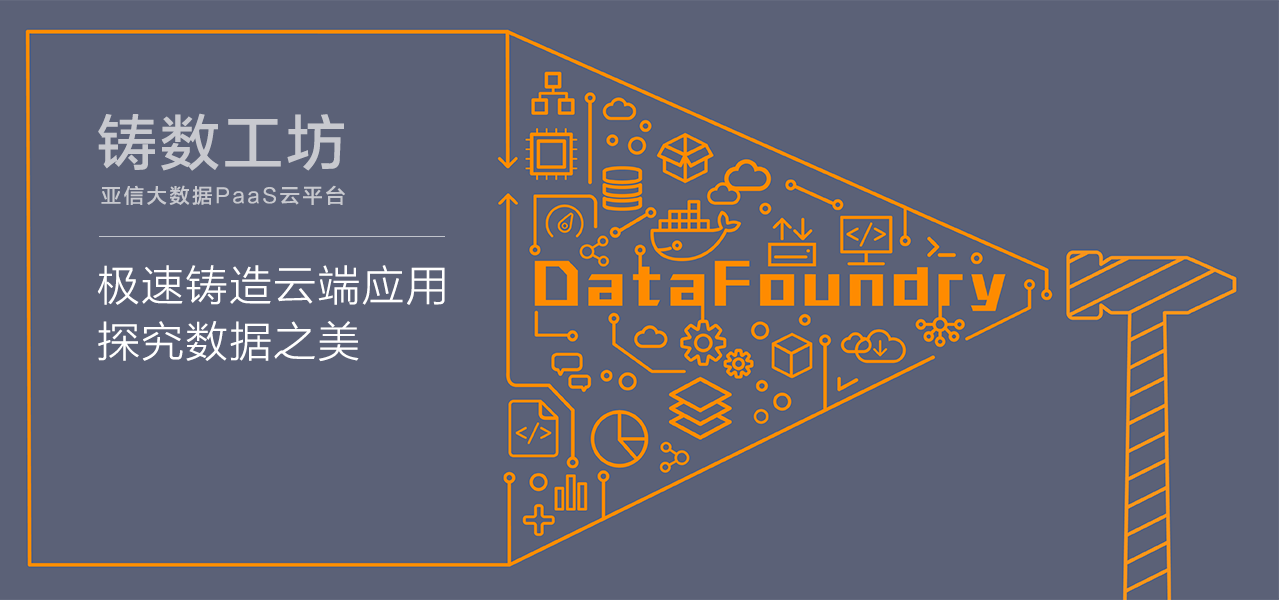
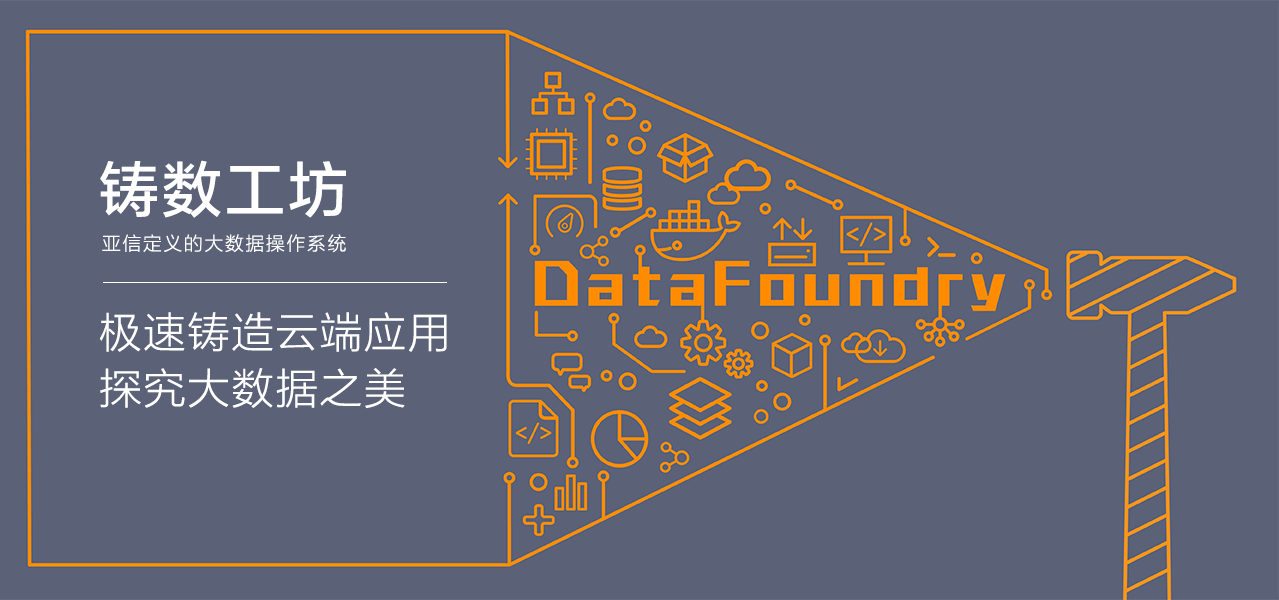
DF首页修改

Changed region(s): [[0.061, 0.45, 0.3659, 0.69], [0.061, 0.18, 0.2744, 0.36], [0.061, 0.39, 0.2744, 0.42]]

diff --git a/app/views/home/index/index.html b/app/views/home/index/index.html
@@ -1,6 +1,6 @@
 <div class="index">
     <div class="banner">
-        <img src="views/home/index/img/banner.png">
+        <img style="width:100%;" src="views/home/index/img/banner.png">
     </div>
     <div class="second">
         <div class="info col-sm-7">
